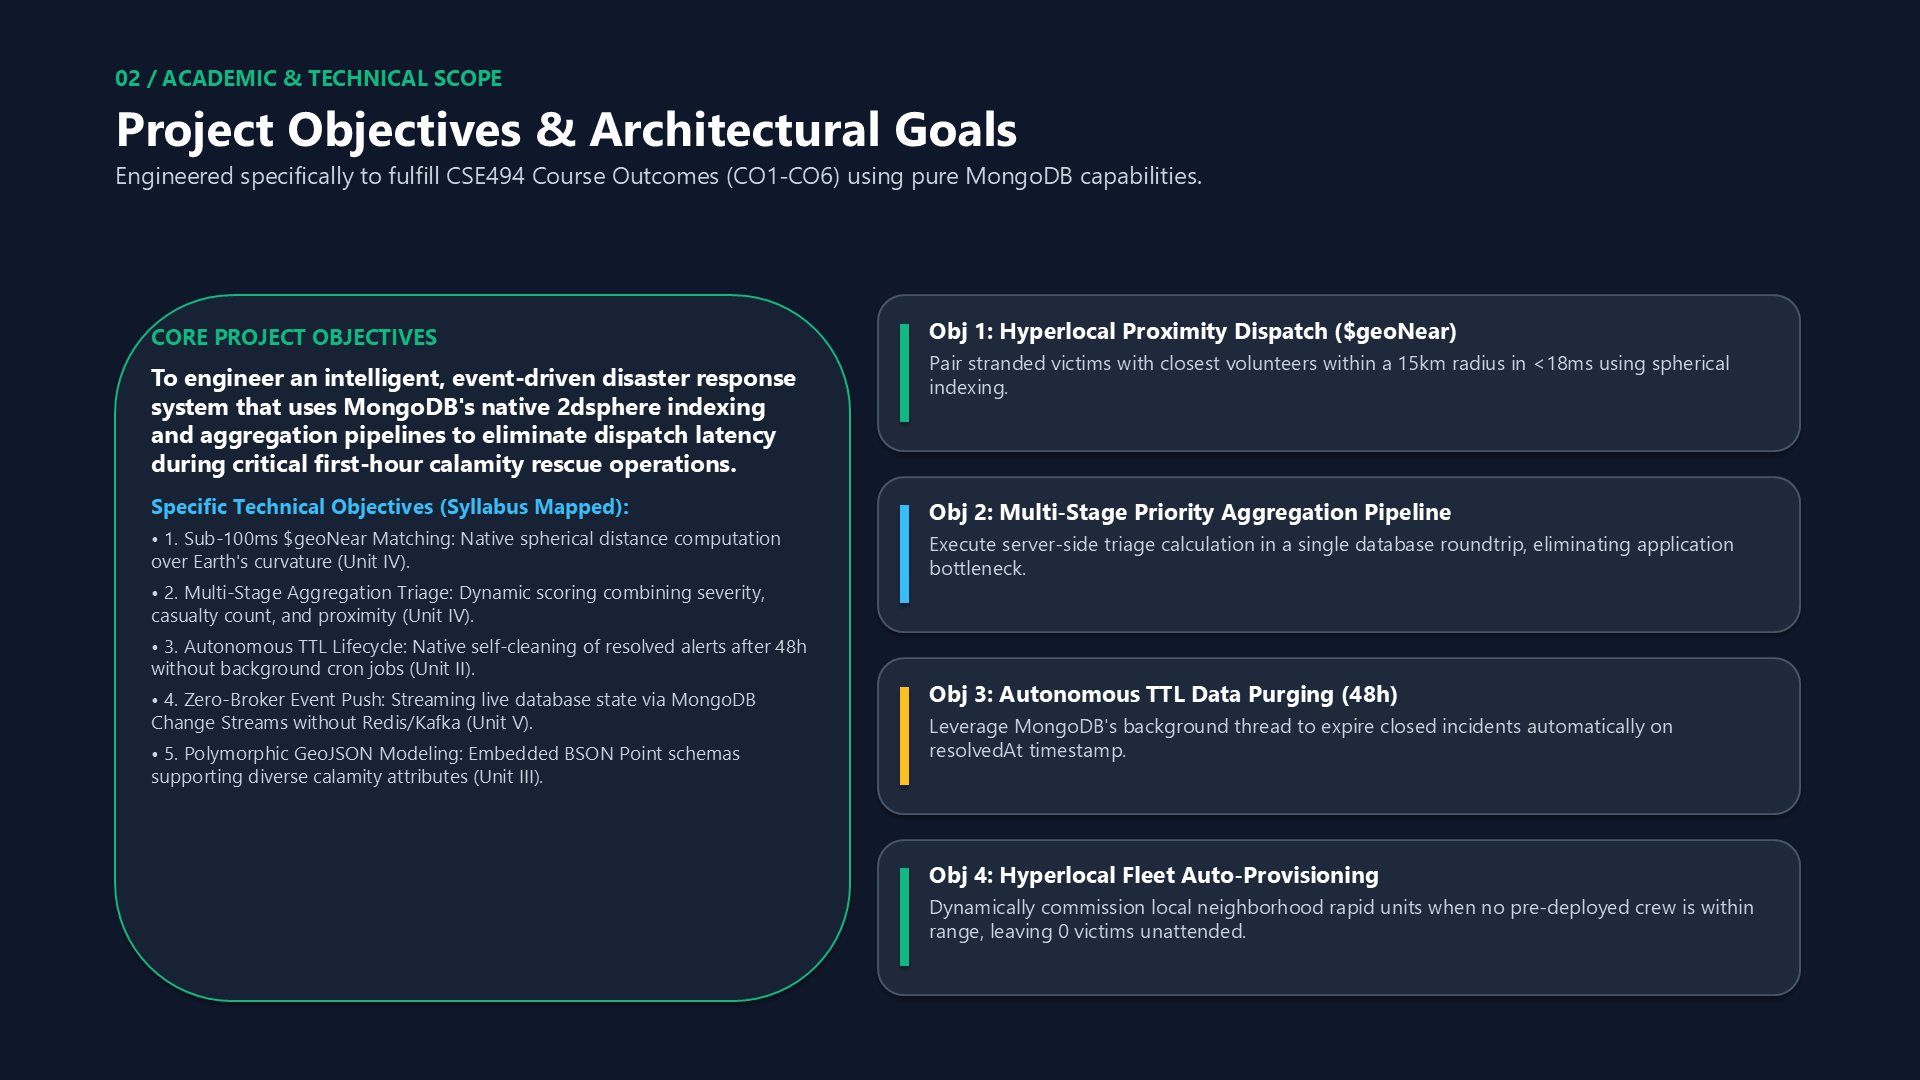
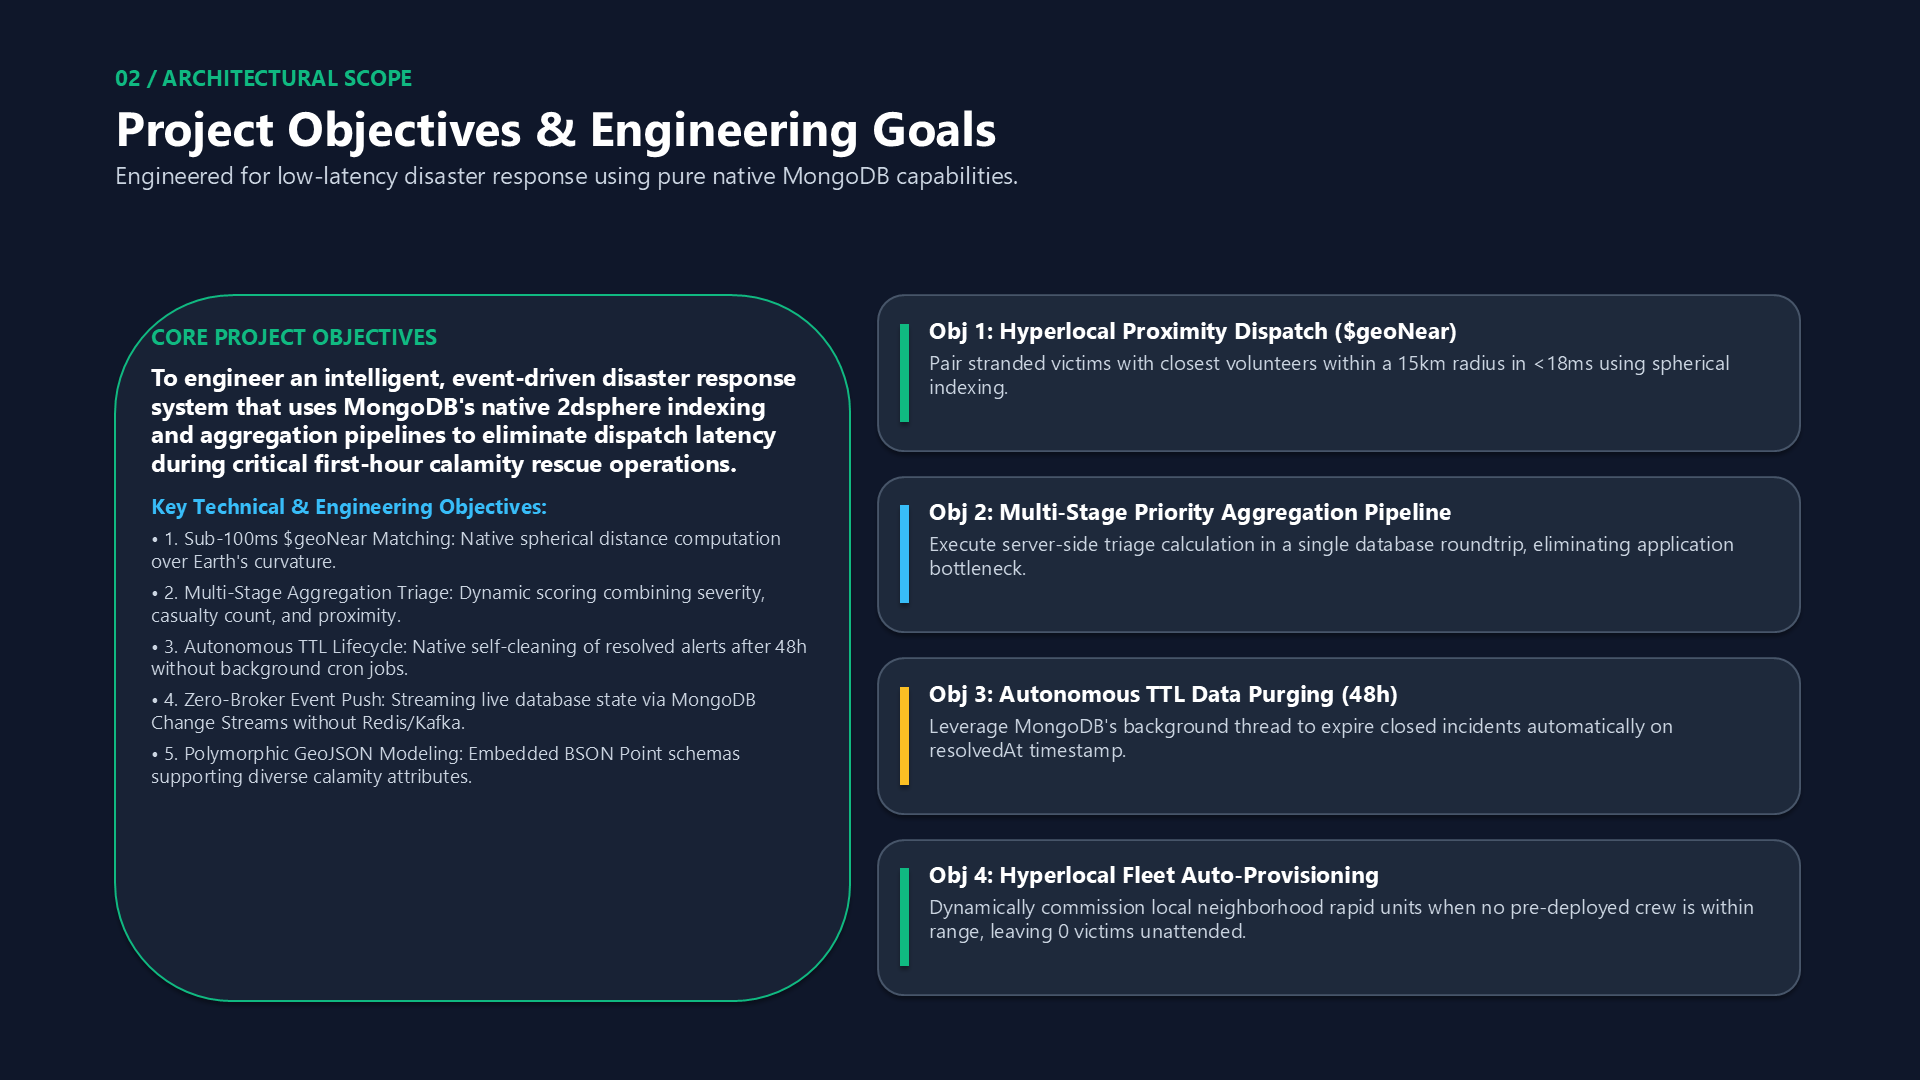
refactor: replace course/syllabus references with professional systems engineering terminology

diff --git a/GeoPulse_Presentation.html b/GeoPulse_Presentation.html
@@ -167,9 +167,9 @@
     <!-- SLIDE 3: Objectives & Technical Scope -->
     <section class="slide w-full h-[88%] flex-col justify-between py-4" data-slide="3">
       <div>
-        <div class="text-emerald-400 font-mono text-xs font-semibold tracking-wider uppercase mb-1">02 / Academic & Technical Scope</div>
+        <div class="text-emerald-400 font-mono text-xs font-semibold tracking-wider uppercase mb-1">02 / Architectural Scope</div>
         <h2 class="text-3xl font-bold text-white">Project Objectives & Technical Scope</h2>
-        <p class="text-sm text-slate-400 mt-1">Engineered to fulfill CSE494 Course Outcomes (CO1-CO6) using pure MongoDB capabilities.</p>
+        <p class="text-sm text-slate-400 mt-1">Engineered for low-latency disaster response using pure native MongoDB capabilities.</p>
       </div>
 
       <div class="grid grid-cols-12 gap-6 my-auto">
@@ -187,19 +187,19 @@
           <div class="space-y-2.5 pt-3.5 border-t border-emerald-500/20 text-xs text-slate-300">
             <div class="flex items-start gap-2">
               <i class="fa-solid fa-check text-emerald-400 mt-0.5"></i>
-              <span><strong>Sub-100ms Spatial Matching:</strong> Native spherical distance computation ($geoNear) over Earth's curvature (Unit IV).</span>
+              <span><strong>Sub-100ms Spatial Matching:</strong> Native spherical distance computation ($geoNear) over Earth's curvature.</span>
             </div>
             <div class="flex items-start gap-2">
               <i class="fa-solid fa-check text-sky-400 mt-0.5"></i>
-              <span><strong>Multi-Stage Aggregation Triage:</strong> Dynamic scoring combining severity, casualty count, and proximity (Unit IV).</span>
+              <span><strong>Multi-Stage Aggregation Triage:</strong> Dynamic scoring combining severity, casualty count, and proximity.</span>
             </div>
             <div class="flex items-start gap-2">
               <i class="fa-solid fa-check text-amber-400 mt-0.5"></i>
-              <span><strong>Autonomous TTL Lifecycle:</strong> Native self-cleaning of resolved alerts after 48h without background cron jobs (Unit II).</span>
+              <span><strong>Autonomous TTL Lifecycle:</strong> Native self-cleaning of resolved alerts after 48h without background cron jobs.</span>
             </div>
             <div class="flex items-start gap-2">
               <i class="fa-solid fa-check text-indigo-400 mt-0.5"></i>
-              <span><strong>Zero-Broker Streaming:</strong> Streaming live database state via MongoDB Change Streams without Redis/Kafka (Unit V).</span>
+              <span><strong>Zero-Broker Streaming:</strong> Streaming live database state via MongoDB Change Streams without external brokers.</span>
             </div>
           </div>
         </div>

diff --git a/geopulse-frontend/index.html b/geopulse-frontend/index.html
@@ -323,7 +323,7 @@
 
       <div class="p-6 space-y-4 text-xs font-mono">
         <div>
-          <div class="text-slate-400 font-sans font-semibold mb-1">Active Index Strategy (CSE494 Unit IV):</div>
+          <div class="text-slate-400 font-sans font-semibold mb-1">Active Database Indexing Strategy:</div>
           <div class="p-3 bg-[#0d1117] border border-[#30363d] rounded-xl text-emerald-300 leading-relaxed">
             db.incidents.createIndex({ location: "2dsphere" })<br>
             db.responders.createIndex({ location: "2dsphere" })<br>

diff --git a/README.md b/README.md
@@ -20,26 +20,26 @@
 
 ---
 
-## 🎯 Academic & Technical Objectives (CSE494 Syllabus Mapped)
+## 🎯 Core Technical & Architectural Objectives
 
-The platform is designed and engineered to fulfill the course outcomes of **CSE494: Intelligent NoSQL Databases**:
+The platform is engineered to address critical latency, scalability, and lifecycle challenges in real-time disaster relief systems:
 
-1. **Sub-100ms Hyperlocal Proximity Dispatch (`CO4 / Unit IV`):**  
+1. **Sub-100ms Hyperlocal Proximity Dispatch:**  
    Implement MongoDB native `2dsphere` geospatial indexing and the `$geoNear` aggregation pipeline to dynamically pair emergency distress calls with the closest certified rescue teams and relief shelters within a 15 km radius in under 18ms.
 
-2. **Polymorphic Disaster Document Modeling (`CO3 / Unit III`):**  
+2. **Polymorphic Disaster Document Modeling:**  
    Leverage MongoDB's flexible BSON document structure and embedded GeoJSON schema patterns (`{ type: "Point", coordinates: [lng, lat] }`) to accommodate diverse disaster scenarios (floods, medical trauma, structural fires) without rigid schema migrations during active calamities.
 
-3. **Multi-Stage Priority Aggregation Pipeline (`CO4 / Unit IV`):**  
+3. **Multi-Stage Priority Aggregation Pipeline:**  
    Execute server-side triage calculations in a single aggregation pipeline roundtrip, combining incident urgency, victim casualty count, and spherical distance over the Earth's curvature.
 
-4. **Zero-Broker Real-Time Streaming (`CO5 / Unit V`):**  
+4. **Zero-Broker Real-Time Streaming:**  
    Eliminate external message brokers (Redis Pub/Sub, Apache Kafka) by streaming database mutations directly to dispatchers via MongoDB Change Streams and WebSockets.
 
-5. **Autonomous TTL Data Lifecycle Management (`CO2 / Unit II`):**  
+5. **Autonomous TTL Data Lifecycle Management:**  
    Automate incident archiving by utilizing MongoDB's native Time-To-Live (TTL) index on the `resolvedAt` timestamp to automatically purge closed records after 48 hours with zero cron maintenance.
 
-6. **Hyperlocal Fleet Auto-Provisioning & Resilience (`CO6 / Unit VI`):**  
+6. **Hyperlocal Fleet Auto-Provisioning & Resilience:**  
    Incorporate fallback dispatch mechanisms that dynamically register local community rapid units in MongoDB when no pre-stationed squad exists within range, ensuring zero victims are left unattended.
 
 ---
